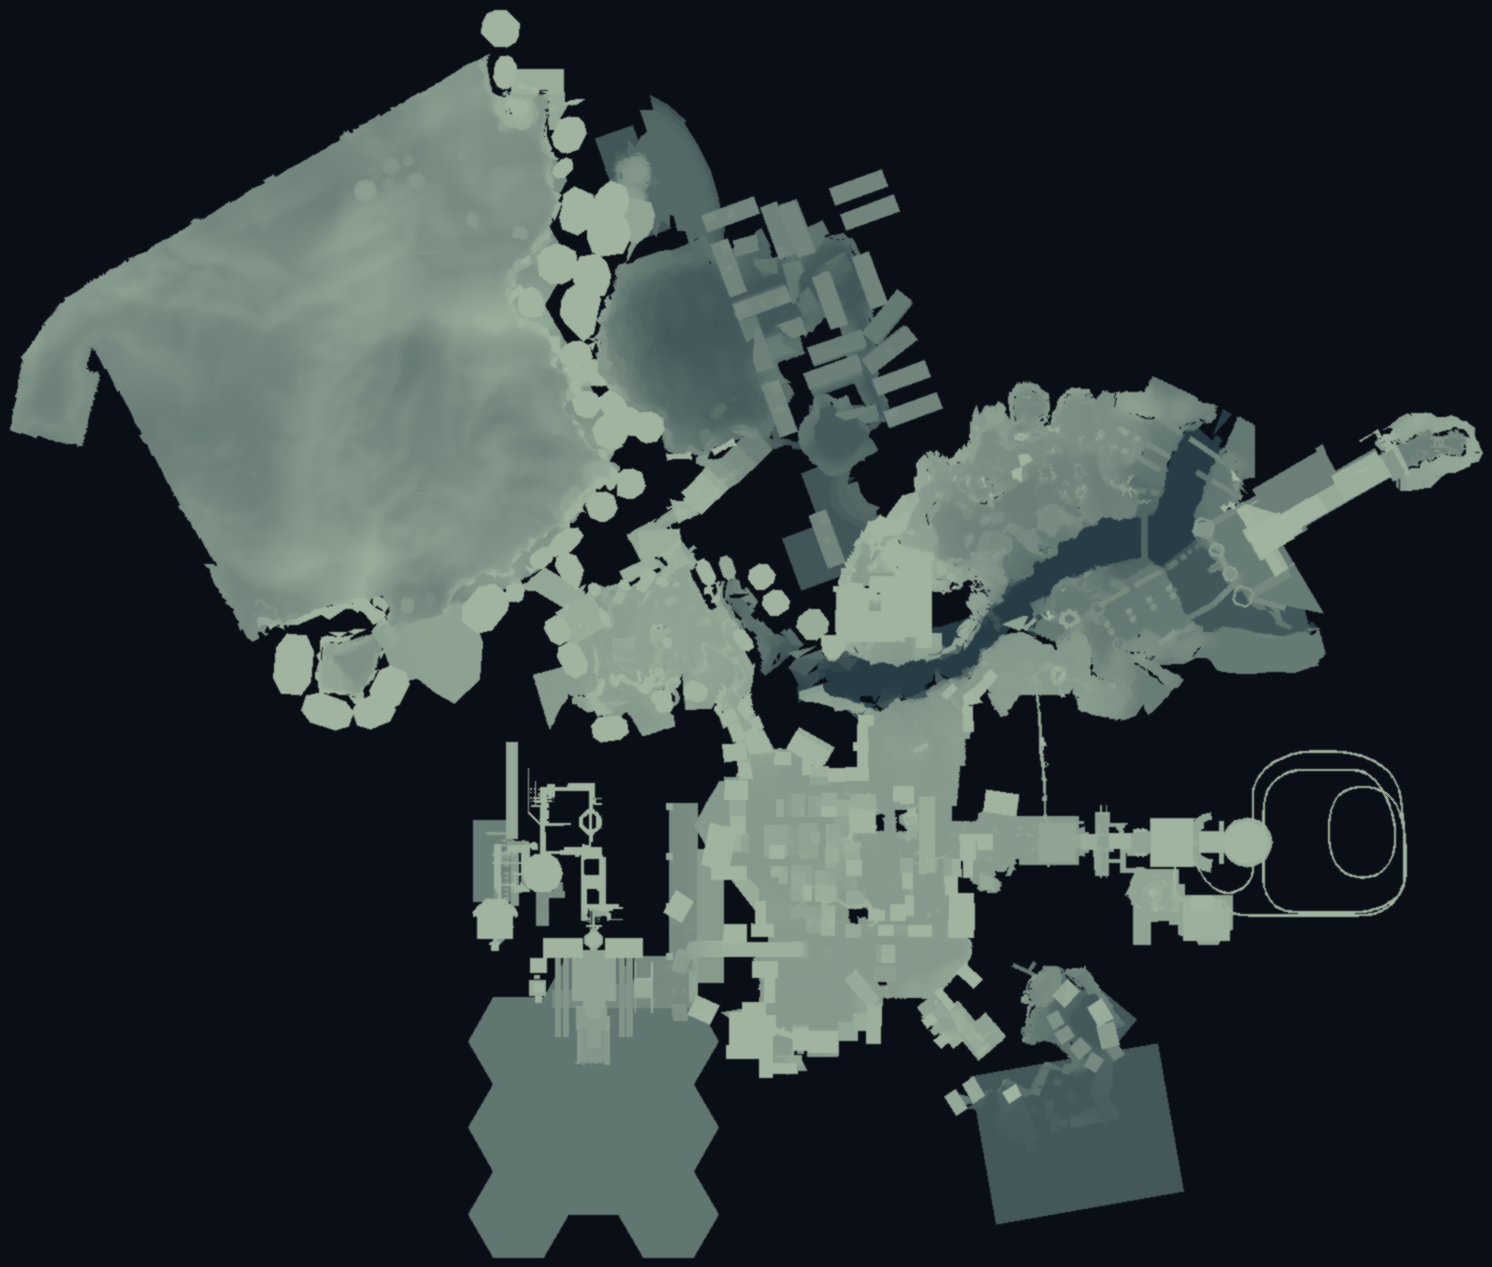
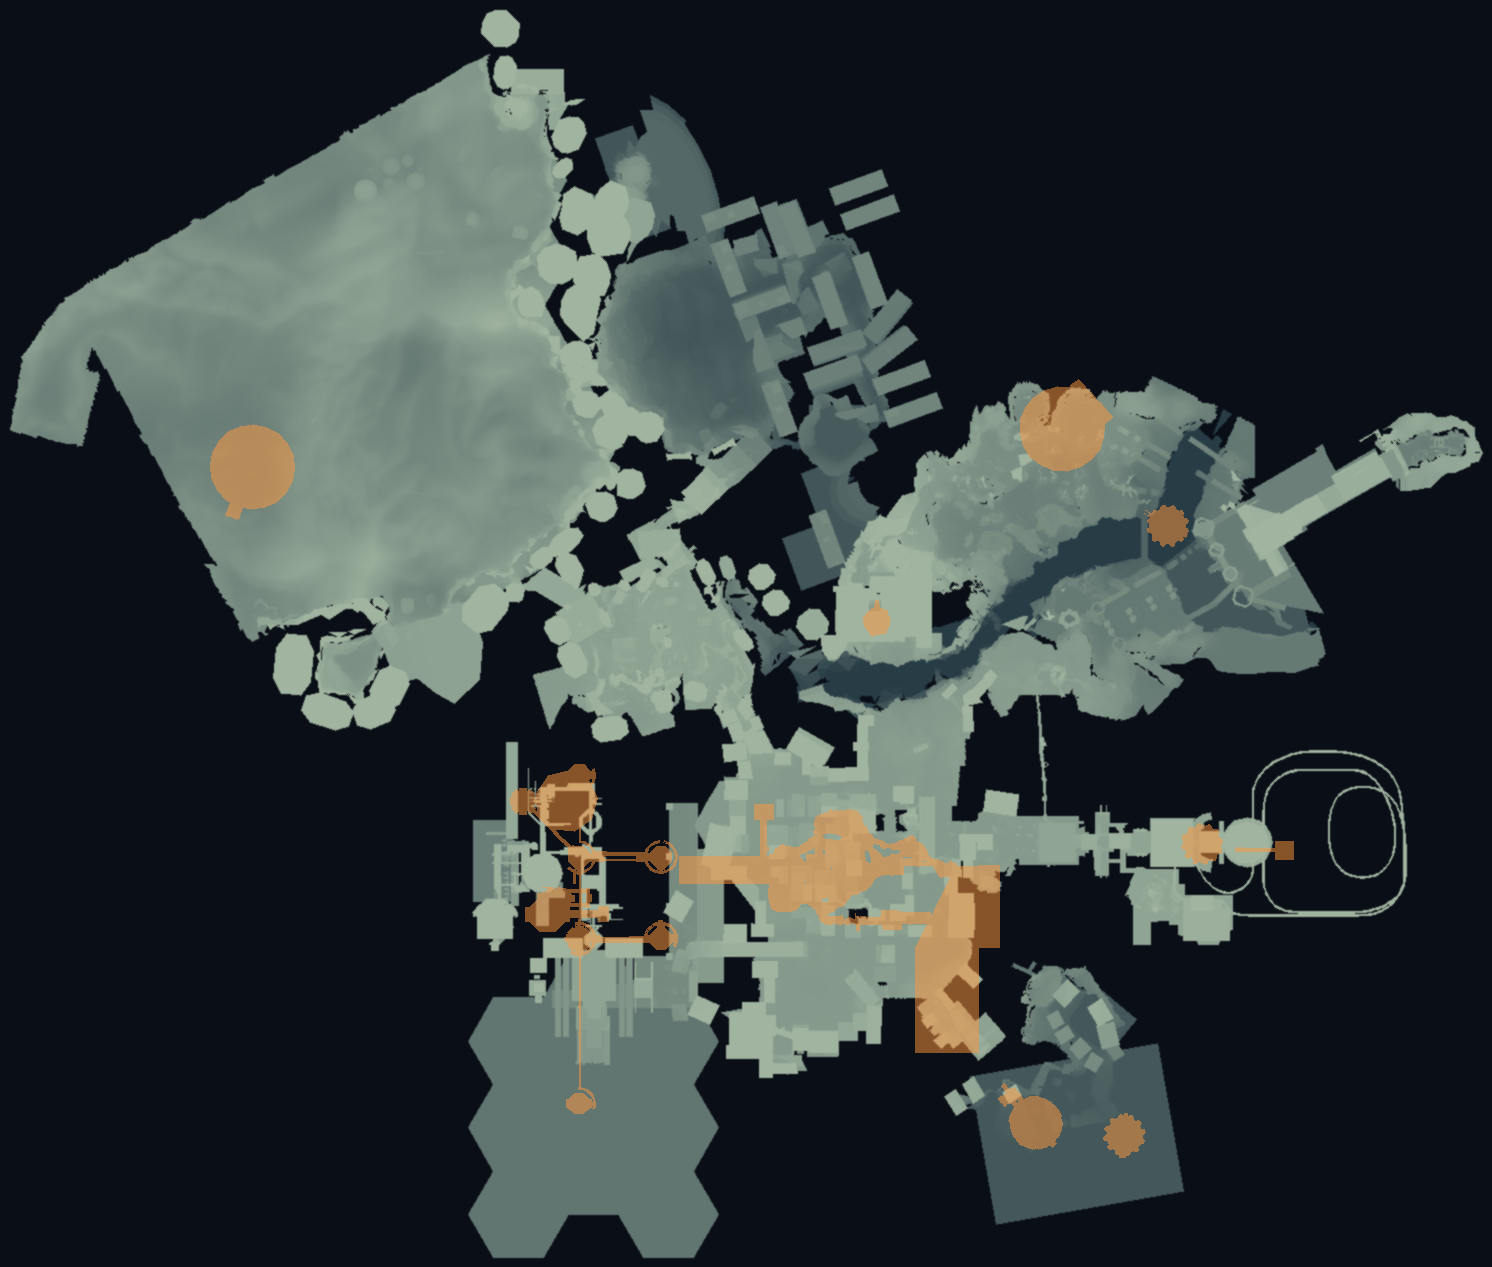
feat: carte - salles interieures et souterraines dessinees en orange (collisions wd5)

diff --git a/tools/build_map.py b/tools/build_map.py
@@ -40,6 +40,27 @@ for i in np.argsort(ymax):
     c = (int(40 + 120 * v), int(60 + 120 * v), int(70 + 90 * v))
     d.polygon([((p[0] - x0) / SCALE, (p[2] - z0) / SCALE) for p in t[i]], fill=c)
 img = img.filter(ImageFilter.SMOOTH)
+
+# Interieurs (wd5, deja en coordonnees monde) : sols en orange translucide par-dessus le monde ouvert, pour que
+# les checks de grotte / sous-sol / salle ne paraissent pas poses en plein air. g50010 = un grand plan, ignore.
+INTERIOR = (255, 150, 60, 130)
+ov = Image.new("RGBA", img.size, (0, 0, 0, 0))
+od = ImageDraw.Draw(ov)
+n_int = 0
+for n, e in sorted(manifest.items()):
+    if not (n.startswith("wd5/") and e.get("col") and e["col"]["tris"]) or e["col"]["names"] == ["test"]             or n == "wd5/g50010.dat":
+        continue
+    with np.load(R.CACHE / f"{n.replace('/', '__')[:-4]}.npz") as z:
+        ti = z["tris"].astype(np.float32)
+    nrm = np.cross(ti[:, 1] - ti[:, 0], ti[:, 2] - ti[:, 0])
+    ln = np.linalg.norm(nrm, axis=1)
+    ti = ti[(ln > 1e-6) & (np.abs(nrm[:, 1]) / np.maximum(ln, 1e-6) > 0.5)
+            & (ti[:, :, 1].max(axis=1) < 300) & (ti[:, :, 1].min(axis=1) > -600)]
+    n_int += len(ti)
+    for tri in ti:
+        od.polygon([((p[0] - x0) / SCALE, (p[2] - z0) / SCALE) for p in tri], fill=INTERIOR)
+img.paste(ov, (0, 0), ov)
+print(n_int, "triangles d'interieur")
 img.save(OUT / "map.png", optimize=True)
 (OUT / "map.json").write_text(json.dumps({"x0": x0, "z0": z0, "scale": SCALE, "width": w, "height": h}))
 print(len(t), "triangles", w, "x", h, (OUT / "map.png").stat().st_size // 1024, "Ko")

diff --git a/tests/test_worldmap.py b/tests/test_worldmap.py
@@ -26,3 +26,20 @@ def test_markers_hints_first_then_remaining_checks():
     assert ("check", c0["name"]) in kinds and ("check", c1["name"]) not in kinds     # deja en indice
     assert marks[-1].kind == "player" and (marks[-1].x, marks[-1].z) == (1.0, 3.0)
     assert not any("Level" in m.label for m in marks)
+
+
+def test_map_shows_indoor_rooms_in_orange():
+    # les salles interieures (grottes, sous-sols) sont dessinees en orange : un check de grotte tombe dessus
+    import io
+    import pytest
+    Image = pytest.importorskip("PIL.Image")
+    img = Image.open(io.BytesIO(wm.map_png())).convert("RGB")
+    info = wm.load_info()
+    cave = [c for c in db.CHESTS if "Deep Cave" in c["name"]]
+    assert cave
+    orange = 0
+    for c in cave:
+        px, py = info.to_pixel(c["pos"][0], c["pos"][2])
+        r, g, b = img.getpixel((int(px), int(py)))
+        orange += r > b + 40
+    assert orange >= len(cave) * 0.8

diff --git a/nier_automata/game/map_ui.py b/nier_automata/game/map_ui.py
@@ -14,7 +14,7 @@ def _map_file() -> str:
     d.mkdir(parents=True, exist_ok=True)
     f = d / "map.png"
     data = wm.map_png()
-    if not f.exists() or f.stat().st_size != len(data):
+    if not f.exists() or f.read_bytes() != data:      # contenu, pas taille : la carte change entre versions
         f.write_bytes(data)
     return str(f)
 
@@ -121,7 +121,7 @@ def build_map_tab(ctx):
         n_h = sum(1 for m in marks if m.kind == "hint")
         n_c = sum(1 for m in marks if m.kind == "check")
         last = next((m.label for m in reversed(marks) if m.kind == "hint"), "")
-        legend.text = f"  Hints: {n_h} (yellow)   Remaining checks with a location: {n_c} (grey)   You: red   {last}"
+        legend.text = f"  Hints: {n_h} (yellow)   Remaining checks with a location: {n_c} (grey)   You: red   Indoor / underground rooms: orange   {last}"
 
     Clock.schedule_interval(refresh, 0.5)
     return root

diff --git a/README.fr.md b/README.fr.md
@@ -76,7 +76,8 @@ dialogue est a l'ecran.
 ## Carte
 Le client a un onglet **Map** : une carte du monde vue de dessus, construite a partir des collisions du jeu.
 Les lieux donnes par un indice sont en jaune, tes checks restants qui ont un lieu precis en gris, et toi en
-rouge. Molette pour zoomer, glisser pour deplacer.
+rouge. Les salles interieures et souterraines (grottes, usine, centre commercial...) sont en orange par-dessus
+le monde ouvert. Molette pour zoomer, glisser pour deplacer.
 
 ![Onglet Map](docs/map_tab.png)
 

diff --git a/README.md b/README.md
@@ -72,6 +72,7 @@ Traps that use the game's own effects wait while a menu, a loading screen, a cut
 ## Map
 The client has a **Map** tab: a top-down map of the world built from the game's own collision data. Hinted
 locations are yellow, your remaining checks that have a precise location are grey, and you are the red dot.
+Indoor and underground rooms (caves, factory, shopping center...) are drawn in orange over the open world.
 Scroll to zoom, drag to move.
 
 ![Map tab](docs/map_tab.png)
